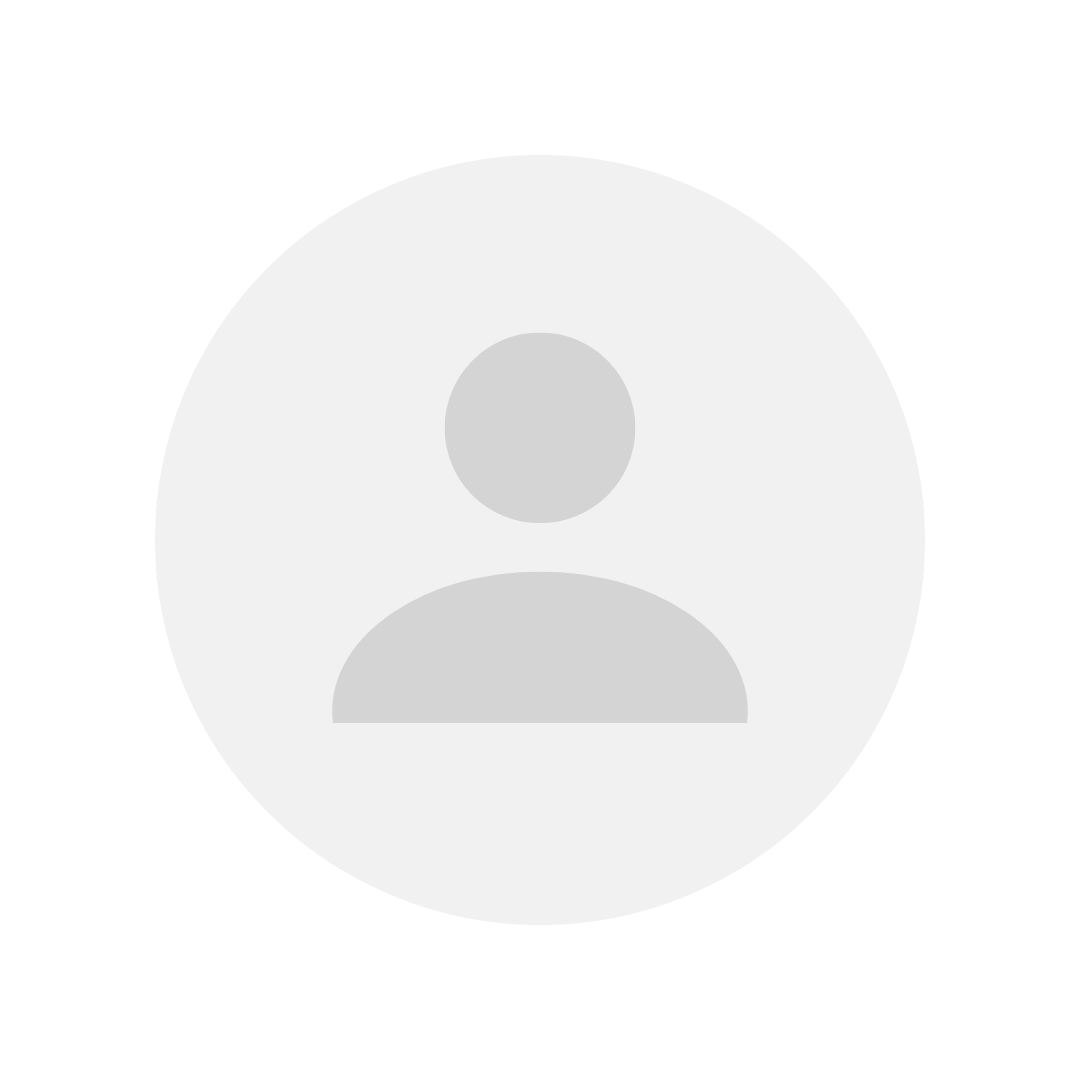
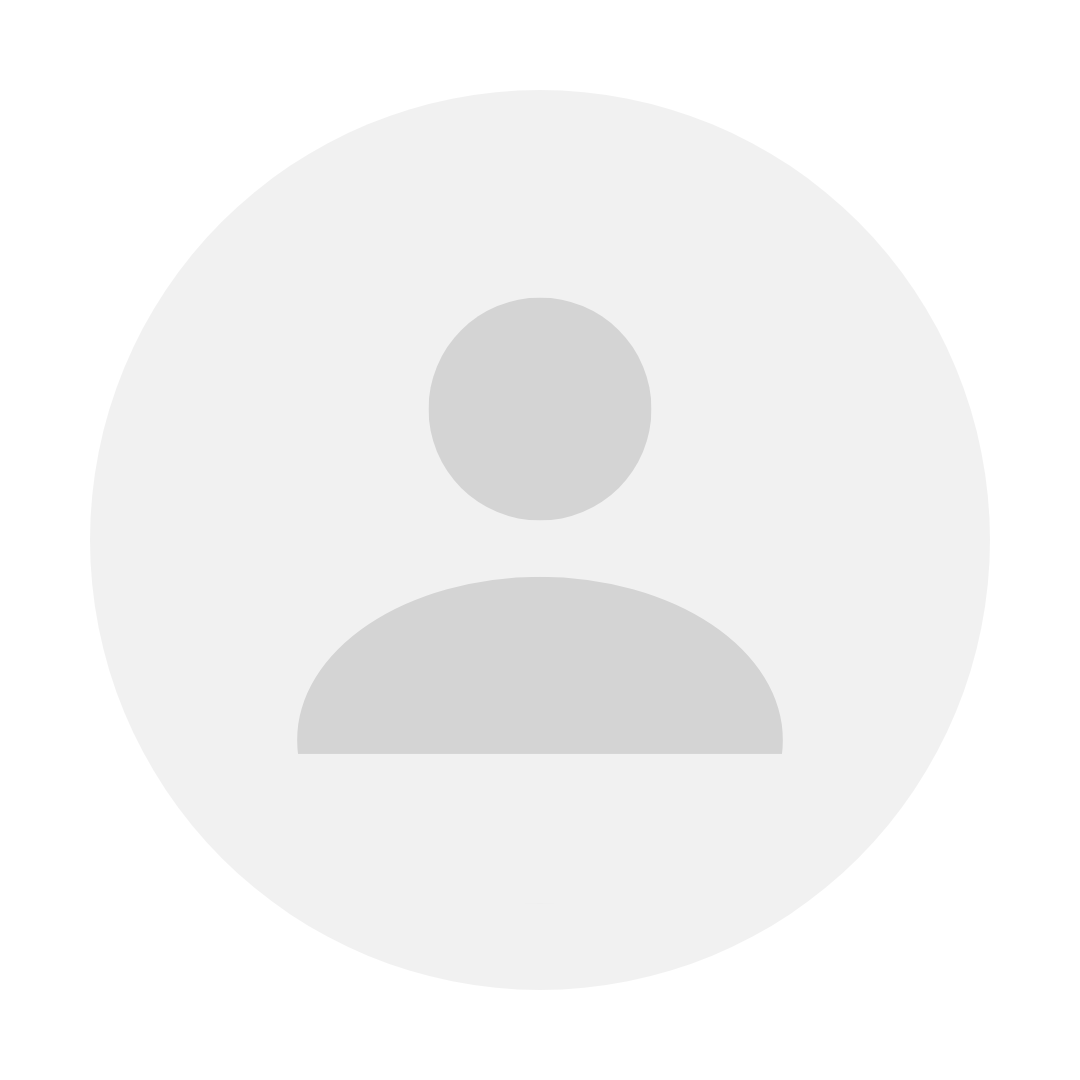
commit

Changed region(s): [[0.275, 0.5806, 0.7333, 0.7028], [0.3972, 0.275, 0.6111, 0.4583], [0.4278, 0.5194, 0.5806, 0.55]]

diff --git a/includes/navbar.php b/includes/navbar.php
@@ -75,7 +75,7 @@ function pagePath($pageTitle, $breadcrumb)
 <aside class="main-sidebar sidebar-dark-primary elevation-4">
     <!-- Brand Logo -->
     <a href="./" class="brand-link">
-        <img src="./src/images/AdminLTELogo.png" alt="AdminLTE Logo" class="brand-image img-circle elevation-3"
+        <img src="./src/images/logo.png" alt="AdminLTE Logo" class="brand-image img-circle elevation-3"
             style="opacity: .8">
         <span class="brand-text font-weight-light">AdminLTE 3</span>
     </a>
@@ -85,7 +85,7 @@ function pagePath($pageTitle, $breadcrumb)
         <!-- Sidebar user panel (optional) -->
         <div class="user-panel mt-3 pb-3 mb-3 d-flex">
             <div class="image">
-                <img src="./src/images/iqbolshoh.svg" class="img-circle elevation-2" alt="User Image">
+                <img src="./src/images/default.png" class="img-circle elevation-2" alt="User Image">
             </div>
             <div class="info">
                 <a href="./" class="d-block">Iqbolshoh Ilhomjonov</a>
